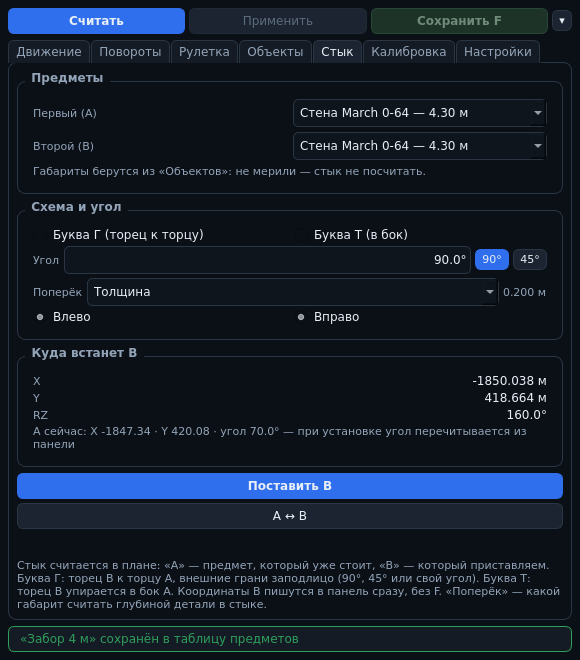
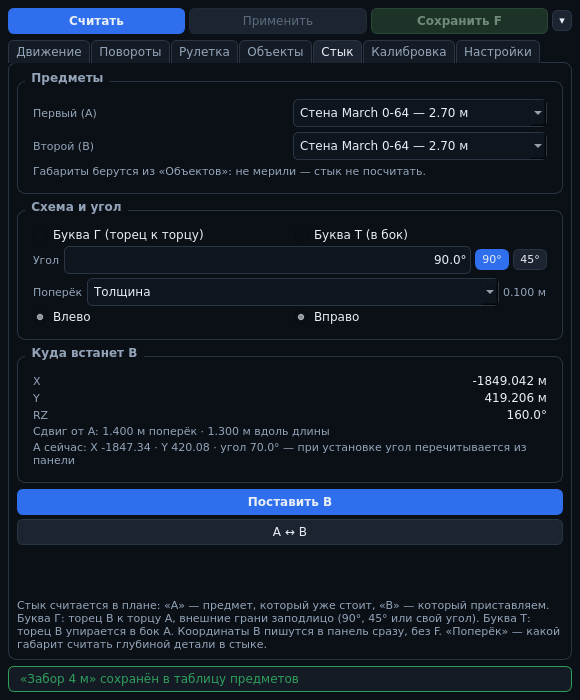
docs(join): сверка расчёта стыка с ручной установкой
- docs/join-check.md + docs/join-check.png: расчёт против двух ручных установок
  (A под 70°, стена 2.7 x 0.1, Г влево): 3.8 см и 14.3 см, общий угол до 0.0 мм
- ui: строка «Сдвиг от A» (поперёк и вдоль длины) в «Стыке»
- tests: сверка на координатах из игры, строка сдвига
- CHANGELOG 2.8.1, снимок «Стыка», версия 2.8.1
- 327 тестов, покрытие 88 %

Changed region(s): [[0.031, 0.0, 0.9931, 0.8182], [0.031, 0.8485, 0.9931, 1.0]]

diff --git a/lsp_overlay/ui/tabs/join_tab.py b/lsp_overlay/ui/tabs/join_tab.py
@@ -27,6 +27,7 @@ from lsp_overlay.domain.join import (
     JoinScheme,
     JoinSide,
     join_pose,
+    local_offset,
 )
 from lsp_overlay.domain.pose import Pose
 from lsp_overlay.ui.widgets import make_button, make_label, make_number_editor
@@ -171,7 +172,9 @@ class JoinTab(QWidget):
             value.setAlignment(Qt.AlignmentFlag.AlignRight | Qt.AlignmentFlag.AlignVCenter)
             self._value_labels[key] = value
             grid.addWidget(value, row, 1)
-        grid.addWidget(self.lbl_base, len(self._value_labels), 0, 1, 2)
+        self.lbl_shift = make_label(EMPTY_TEXT, muted=True, wrap=True)
+        grid.addWidget(self.lbl_shift, len(self._value_labels), 0, 1, 2)
+        grid.addWidget(self.lbl_base, len(self._value_labels) + 1, 0, 1, 2)
         return group
 
     def _build_actions(self) -> QWidget:
@@ -274,6 +277,7 @@ class JoinTab(QWidget):
         first, second = self.selected_specs()
         self._update_base_line()
         self._update_across_value(first, second)
+        self._update_shift_line(first, second)
         texts = dict.fromkeys(self._value_labels, EMPTY_TEXT)
         if first is not None and second is not None:
             try:
@@ -300,6 +304,24 @@ class JoinTab(QWidget):
         self.combo_first.blockSignals(False)
         self.combo_second.blockSignals(False)
         self._update_preview()
+
+    def _update_shift_line(self, first: ObjectSpec | None, second: ObjectSpec | None) -> None:
+        """Сдвиг от A в его собственных осях: поперёк и вдоль длины."""
+        if first is None or second is None:
+            self.lbl_shift.setText(EMPTY_TEXT)
+            return
+        try:
+            across, along = local_offset(first, second, self.request())
+        except DomainError:
+            self.lbl_shift.setText(EMPTY_TEXT)
+            return
+        self.lbl_shift.setText(
+            f"Сдвиг от A: {abs(across):.3f} м поперёк · {along:.3f} м вдоль длины"
+        )
+
+    def shift_text(self) -> str:
+        """Строка сдвига в осях A (для тестов)."""
+        return self.lbl_shift.text()
 
     def _update_base_line(self) -> None:
         pose = self._pose

diff --git a/tests/test_join.py b/tests/test_join.py
@@ -169,6 +169,26 @@ def test_tilt_moves_second_object_vertically() -> None:
     assert distance == pytest.approx(local)
 
 
+def test_matches_hand_placed_example_from_game() -> None:
+    """Сверка с ручной установкой игрока: A под 70°, стена 2.7 × 0.1, Г влево."""
+    base = Pose(x=-1847.342, y=420.077, z=128.316, rz=70.0)
+    wall = ObjectSpec(name="Стена March 0-64", length=2.7, width=2.5, thickness=0.1)
+    target = join_pose(base, wall, wall, corner(90.0, JoinSide.LEFT))
+    hand = Pose(x=-1849.037, y=419.168, z=128.316, rz=160.0)
+    assert target.rz == pytest.approx(hand.rz)
+    assert math.dist((target.x, target.y), (hand.x, hand.y)) == pytest.approx(0.038, abs=0.02)
+    # угол B стоит ровно в угле A
+    x, y = near_corner(wall, target, 90.0, JoinSide.LEFT, base.rz)
+    radians = math.radians(base.rz)
+    corner_x, corner_y = -0.05, 1.35
+    expected = (
+        base.x + corner_x * math.cos(radians) - corner_y * math.sin(radians),
+        base.y + corner_x * math.sin(radians) + corner_y * math.cos(radians),
+    )
+    assert x == pytest.approx(expected[0], abs=1e-9)
+    assert y == pytest.approx(expected[1], abs=1e-9)
+
+
 def test_angles_are_normalized() -> None:
     base = Pose(x=0.0, y=0.0, z=0.0, rz=170.0)
     target = join_pose(base, WALL, WALL, corner(side=JoinSide.LEFT))

diff --git a/tests/test_ui.py b/tests/test_ui.py
@@ -128,6 +128,8 @@ def test_join_tab_shows_base_angle_and_across_value(tmp_path: Path, qt_app: obje
     window.join_tab.combo_second.setCurrentIndex(0)
     assert "угол 70.0°" in window.join_tab.base_line()
     assert window.join_tab.across_text() == "0.200 м"
+    assert "поперёк" in window.join_tab.shift_text()
+    assert "вдоль длины" in window.join_tab.shift_text()
     window.join_tab.place_requested.emit()
     assert "угол A 70.0° → B -20.0°" in window.lbl_status.text()
 

diff --git a/lsp_overlay/__init__.py b/lsp_overlay/__init__.py
@@ -2,5 +2,5 @@
 
 from __future__ import annotations
 
-__version__ = "2.8.0"
+__version__ = "2.8.1"
 __all__ = ["__version__"]

diff --git a/docs/join-check.md b/docs/join-check.md
@@ -1,0 +1,48 @@
+# Сверка стыка с ручной установкой
+
+Проверка расчёта «буквы Г» на реальных координатах из игры: один и тот же предмет
+поставлен руками (два раза) и посчитан оверлеем.
+
+![Сверка стыка](join-check.png)
+
+## Данные
+
+| Что | Значение |
+| --- | --- |
+| Предмет `A` | `X −1847.342`, `Y 420.077`, `Z 128.316`, `RZ 70°` |
+| Габариты предмета | длина `2.7` м, толщина `0.1` м (ширина `2.5` м — высота стены) |
+| Схема | «Буква Г», 90°, влево |
+| Ручной `B` №1 | `X −1849.037`, `Y 419.168`, `Z 128.316`, `RZ 160°` |
+| Ручной `B` №2 | `X −1849.181`, `Y 419.243`, `Z 128.326`, `RZ 160°` |
+
+## Расчёт
+
+Смещение в осях `A` (поперёк, вдоль длины), `s = +1` — влево:
+
+```
+u = (−s·sin φ, cos φ)        # длина B
+v = ( s·cos φ, sin φ)        # внешняя сторона B
+P = (−s·t_A/2, L_A/2)        # угол A на выбранной стороне
+center_B = P + (L_B/2)·u − (t_B/2)·v
+```
+
+При `φ = 90°`, `L = 2.7`, `t = 0.1`: смещение `(−1.40, 1.30)` м, то есть
+`B = (−1849.042, 419.206)`, `RZ = 70° + 90° = 160°`.
+
+## Итог сверки
+
+| Сравнение | Расхождение |
+| --- | --- |
+| Расчёт против ручного `B` №1 | **3.8 см** |
+| Расчёт против ручного `B` №2 | **14.3 см** |
+| Угол `B` во всех случаях | `160°` — совпадает |
+| Общий угол `A` и `B` | совпадает до **0.0 мм**: щели нет, наложения нет |
+
+Ручные координаты — «примерные» (по словам автора), поэтому расхождение в сантиметрах
+ожидаемо: расчёт ставит вторую деталь точно в угол первой, а не «почти».
+
+## Насколько важен габарит
+
+Смещение зависит от длины и толщины: при длине `4.3` вместо `2.7` вторая деталь уезжает
+на `1.1` м — то есть на глаз это уже «не у угла». Поэтому в «Рулетке» габарит проверяется
+перед записью (см. «По этой линии»), а во вкладке «Стык» видны поперечный размер и сдвиг.

diff --git a/README.md b/README.md
@@ -244,6 +244,10 @@ py -3.12 -m venv .venv
 
 Для буквы Т угол всегда 90°, поле угла блокируется.
 
+Под «Куда встанет B» видно ещё две строки: **«Сдвиг от A»** в осях самого предмета
+(поперёк и вдоль длины) и **«A сейчас»** с углом — по ним легко сверить расчёт с тем, что
+вы ставите руками. Пример такой сверки — `docs/join-check.md`.
+
 Подробности — `docs/adr/0007-styk-obektov.md`.
 
 ## Скорость и мышь
@@ -329,7 +333,7 @@ docs/adr/                  архитектурные решения
 ## Тесты и проверки
 
 ```
-.venv\Scripts\python -m pytest            # 326 тестов
+.venv\Scripts\python -m pytest            # 327 тестов
 .venv\Scripts\python -m pytest --cov=lsp_overlay
 ruff check . && mypy lsp_overlay         # линтер и типы
 ```

diff --git a/CHANGELOG.md b/CHANGELOG.md
@@ -3,6 +3,16 @@
 Формат — [Keep a Changelog](https://keepachangelog.com/ru/1.1.0/),
 версии — [SemVer](https://semver.org/lang/ru/).
 
+## [2.8.1] — 2026-11-24
+
+### Добавлено
+
+- В «Стыке» появилась строка **«Сдвиг от A»** — смещение второй детали в осях самого
+  предмета (поперёк и вдоль длины). По ней сразу видно, почему деталь встала туда, а не
+  в угол, если габариты в таблице не те.
+- `docs/join-check.md` — сверка расчёта с ручной установкой из игры: расхождение 3.8 см
+  с первой ручной попыткой и 14.3 см со второй, общий угол совпадает до 0.0 мм.
+
 ## [2.8.0] — 2026-11-24
 
 ### Исправлено
